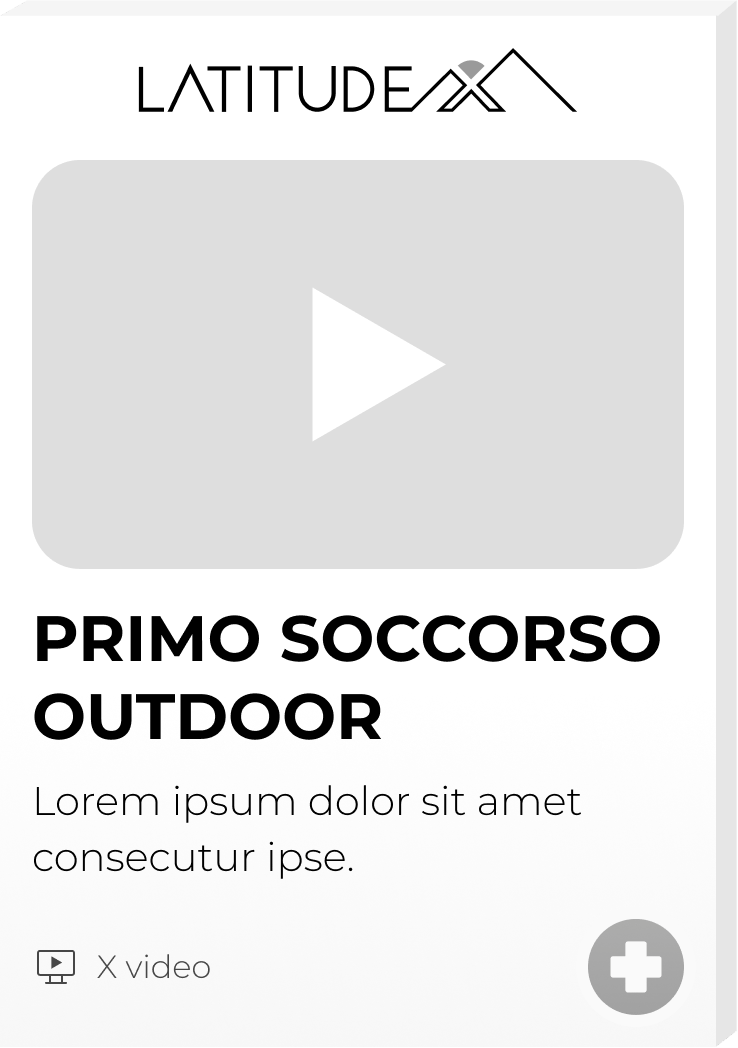
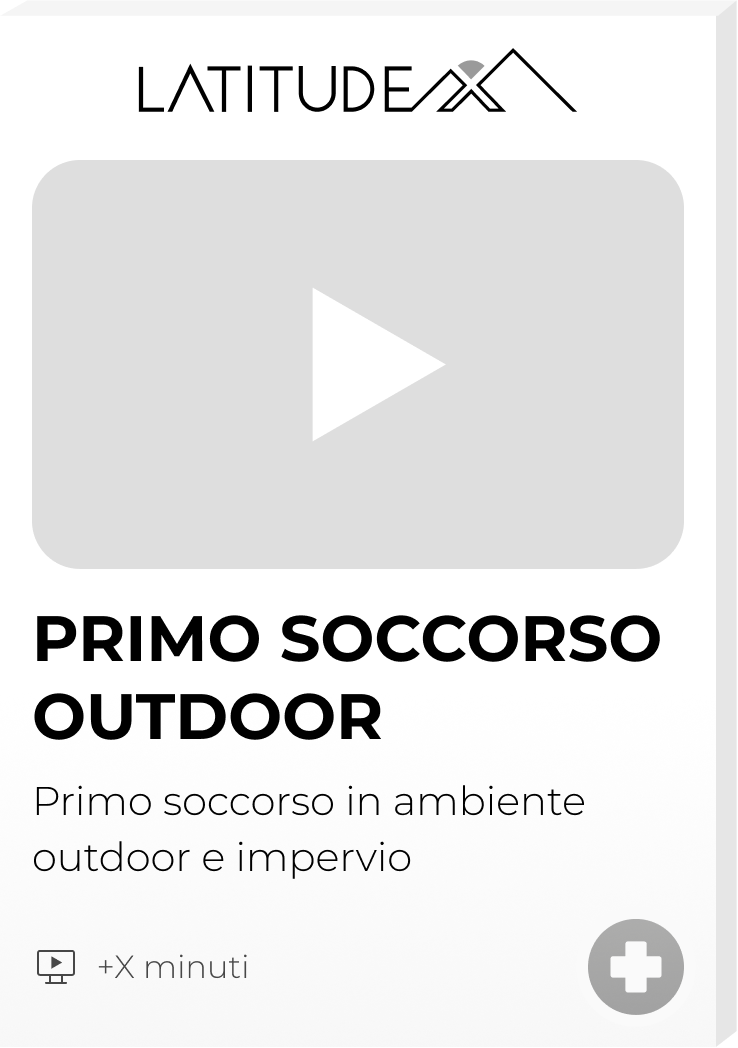
text updates

Changed region(s): [[0.0623, 0.7328, 0.7791, 0.855], [0.1247, 0.916, 0.3428, 0.9466]]

diff --git a/app.config.ts b/app.config.ts
@@ -8,7 +8,7 @@ export default defineAppConfig({
     calendly: "#",
     facebook: "https://www.facebook.com/latitudex/",
     tiktok: "https://www.tiktok.com/@latitudex__academy",
-    instagram: "#",
+    instagram: "https://www.instagram.com/latitudex__academy/",
     cookieBanner: {
       desc: 'Utiliziamo cookie di terze parti per analizzare, in modo anonimo, come viene usato il sito.',
       acceptButton: 'Accetta',
@@ -20,14 +20,14 @@ export default defineAppConfig({
     {
       cover: "/copertina-corso-di-primo-soccorso.png",
       title: "Corso di primo soccorso",
-      description: "In uscita a gennaio 2024",
+      description: "In uscita a febbraio 2024",
       link: "/corso-primo-soccorso",
       isActive: true
     },
     {
       cover: "/copertina-corso-blsd.png",
       title: "Corso BLS-D certificato",
-      description: "In uscita a gennaio 2024",
+      description: "In uscita a febbraio 2024",
       link: "/corso-primo-soccorso",
       isActive: true
     },
@@ -113,7 +113,7 @@ export default defineAppConfig({
         "Istruttrice BLS-D qualificata",
         "Soccorritrice in ambulanza per la Croce Rossa Italiana - SUEM 118",
       ],
-      bio: "Lorem ipsum dolor sit amet, consectetur adipiscing elit, sed do eiusmod tempor incididunt ut labore et dolore magna aliqua. Ut enim ad minim veniam, quis nostrud exercitation ullamco laboris nisi ut aliquip ex ea commodo consequat. Duis aute irure dolor in reprehenderit in voluptate velit esse cillum dolore eu fugiat nulla pariatur. Excepteur sint occaecat cupidatat non proident, sunt in culpa qui officia deserunt mollit anim id est laborum."
+      bio: "Padovana itinerante dal 1996. Cresciuta sotto il segno dell’Ariete, forse la causa del mio spirito dinamico e l’innata perseveranza nel raggiungere gli obiettivi. Appassionata dello Sport in tutte le sue forme e della Natura. Entusiasta e positiva per propria imposizione e personale missione. Laurea Magistrale - con Lode - in Medicina e Chirurgia presso l’Università patavina. Dopo la l’abilitazione alla professione di medico-chirurgo, ho iniziato ad occuparmi di formazione, ottenendo il ruolo di docente titolare dei corsi di Primo Soccorso aziendale. Attualmente sono medico formatore di dipendenti di diverse aziende, avvalendomi di metodiche sia pratiche che teoriche e mettendo a disposizione la mia esperienza come Soccorritrice nelle ambulanze della Croce Rossa Italiana e per il SUEM 118 di Padova. Dalla maggiore età non mi sono più fermata: ho intrapreso diversi viaggi e investito il mio tempo in esperienze che mi formassero dalla mente allo spirito. Chi mi conosce ha ricordi di me solo in movimento, seduta forse solo per mangiare, perché va sottolineato che lo studio della Scienza dell’Alimentazione è una mia grande passione. Insegnante di Yoga per convinto valore, sciatrice per amore. Negli ultimi anni la mia vita ha subito molti cambiamenti. È iniziato un percorso di approccio professionale a diverse discipline legate al mondo dell’Outdoor tra cui alpinismo, canyoning e arrampicata sportiva, ma soprattutto ho conosciuto Francesco. Insieme perseguiamo l’obiettivo di arricchire con sfide, emozioni ed esperienze il viaggio più importante in assoluto, la Vita. Orgogliosa content creator e video maker per passione ed esperienza: sono la creatrice di tutti i video del Canale Youtube di Latitude-X, attraverso i quali esprimo la mia creatività e immortalo le cascate di emozioni racchiuse in ogni singola avventura e sfida vissute. Assemblo e creo minuti di video fatti di storie, immagini e secondi vissuti che diano valore al dono più grande: il nostro tempo."
     },
     francesco: {
       picture: "/francesco-maria-sauro.jpg",
@@ -124,7 +124,7 @@ export default defineAppConfig({
         "Istruttore BLS-D qualificato",
         "Soccorritore in ambulanza per la Croce Rossa Italiana - SUEM 118",
       ],
-      bio: "Lorem ipsum dolor sit amet, consectetur adipiscing elit, sed do eiusmod tempor incididunt ut labore et dolore magna aliqua. Ut enim ad minim veniam, quis nostrud exercitation ullamco laboris nisi ut aliquip ex ea commodo consequat. Duis aute irure dolor in reprehenderit in voluptate velit esse cillum dolore eu fugiat nulla pariatur. Excepteur sint occaecat cupidatat non proident, sunt in culpa qui officia deserunt mollit anim id est laborum."
+      bio: "A 3 anni mio padre mi portò sul Becco di Filadonna in Vigolana. Però non ne lo zaino. Me la feci tutta a piedi, 1000 metri di dislivello. Ebbi la febbre per una settimana. Lì nacque l’amore per la montagna. A 4 anni, tanto ero alto, già non riuscivo a muovermi negli Optimist e seguivo sempre e solo la mia rotta, tra le imprecazioni degli istruttori. Lì nacque l’amore per il mare. Poi di onde, sentieri e pareti ne sono passate in questi anni. La Natura mi ha offerto e mi ha insegnato tanto. Sono diventato skipper appena ho potuto e poi Logistic Coordinator per Miles Beyond – società specializzata nel supporto tecnico e logistico in luoghi estremi. Dal 2017 sono il Logistic Coordinator dei training CAVES e PANGAEA dell’Agenzia Spaziale Europea e ho avuto la fortuna di partecipare in spedizioni in varie parti del Mondo, dalla Groenlandia al Messico, dal Venezuela al Perù, dalle Dolomiti alla Sardegna. Da (ormai troppi) anni mi dedico ai trekking, al free-climbing, all’alpinismo e scialpinismo. Ultimamente – e solo grazie a Giulia – cerco di portare nelle case degli italiani (cit. ☺) un po’ di queste esperienze. Dal 2011 sono soccorritore nelle ambulanze della Croce Rossa di Padova, con all'attivo più di 5.000 interventi di soccorso e sono istruttore di BLS-D e co-docente tecnico nei corsi di BLS. Dal 2019 sono operatore del CNSAS - Corpo Nazionale del Soccorso Alpino e Speleologico. Sono guida associata AssoGuide e skipper."
     },
     luca: {
       picture: "/luca-carenzo.jpg",
@@ -135,7 +135,7 @@ export default defineAppConfig({
         "Formatore e istruttore di simulazione avanzata in ambito di Trauma Critical Care e Disaster Medicine",
         "Diploma Europeo in Terapia Intensiva ed esperienza lavorativa di elisoccorso presso la London’s Air Ambulance",
       ],
-      bio: "Lorem ipsum dolor sit amet, consectetur adipiscing elit, sed do eiusmod tempor incididunt ut labore et dolore magna aliqua. Ut enim ad minim veniam, quis nostrud exercitation ullamco laboris nisi ut aliquip ex ea commodo consequat. Duis aute irure dolor in reprehenderit in voluptate velit esse cillum dolore eu fugiat nulla pariatur. Excepteur sint occaecat cupidatat non proident, sunt in culpa qui officia deserunt mollit anim id est laborum."
+      bio: "Luca Carenzo, medico chirurgo, dopo la specializzazione in Anestesia e Rianimazione ha lavorato con Medici Senza Frontiere in aree a basse risorse e di conflitto e ha successivamente completato la Trauma Critical Care fellowship presso il Royal London Hospital di Londra. Ha inoltre conseguito il master di secondo livello European Master in Disaster Medicine e successivamente il Diploma Europeo in Terapia Intensiva, ha infine acquisito esperienza di elisoccorso lavorando per la London’s Air Ambulance. Attualmente si occupa di terapia intensiva generale ed emergenza presso l’Ospedale Humanitas di Milano. Dal 2012 ad oggi ha frequentato, prima come partecipante e successivamente come faculty, gli eventi formativi di World Extreme Medicine, presentando regolarmente ai congressi della società. Si interessa inoltre di formazione ed educazione, istruttore di simulazione avanzata, ha co-fondato nel 2015 SIMCUP evento nazionale di formazione in simulazione per medici specializzandi."
     }
   },
   recensioni: [
@@ -151,42 +151,42 @@ export default defineAppConfig({
       title: "«Ho evitato che mio figlio soffocasse!»",
       description: "È successo tutto molto velocemente. Eravamo a tavola e ho visto Giacomo che ha iniziato a diventare viola. Inizialmente mi ha preso il panico ma poi mi sono ricordata le manovre di disostruzione che mi avevate insegnato, allora l’ho preso in braccio e ho eseguito meccanicamente il protocollo di disostruzione. Non ho parole per esprimervi la mia gratitudine per avermi dato gli strumenti per agire e salvare mio figlio.",
       from: "Instagram",
-      by: "Nome Cognome"
+      by: "Andrea"
     },
     {
       cover: "/recensione-3.jpg",
       title: "«Quando ti capita, non puoi rimanere a guardare, vuoi agire!»",
       description: "Durante una passeggiata in montagna un componente del gruppo è scivolato dal sentiero in una zona per niente comoda e non riusciva più ad alzarsi. Non ho potuto fare molto dal punto di vista sanitario (abbiamo scoperta dopo che si era rotto il femore), se non gestire al meglio l’intervento, dalla chiamata dei soccorsi, al riscaldare il mio amico (avevo portato il telo termico per la prima volta), allo stargli vicino, al localizzarsi nel migliore dei modi (eravamo partiti ormai da 3 ore). E questo grazie ad aver seguito queste video lezioni.",
-      from: "Instagram",
-      by: "Nome Cognome"
+      from: "Whatsapp",
+      by: "Simona"
     },
     {
       cover: "/recensione-4.jpg",
       title: "«Ho apprezzato tanto il taglio pratico di questo video corso!»",
       description: "Avevo frequentato un corso di primo soccorso in azienda, mi era piaciuto ma sinceramente aveva un taglio eccessivamente teorico. Seguendo questo corso, invece, ho trovato la parte pratica molto interessante e utile veramente in ogni occasione della vita.",
-      from: "Instagram",
-      by: "Nome Cognome"
+      from: "TikTok",
+      by: "Francesco"
     },
     {
       cover: "/recensione-5.jpg",
       title: "«Ora sono in grado di riconoscere tempestivamente i segni d’allarme!»",
       description: "Qualche mese fa un mio collega ha iniziato a star male ma tutti, compreso lui, stavamo sottovalutando la situazione. Avendo fatto il corso da poco, mi sono ricordato, di alcuni sintomi importanti da valutare e alla fine ho preferito chiamare il 118. Il mio collega stava avendo un infarto, ma per fortuna è stato preso in tempo! Tanti segni e sintomi prima non li capivo o li ignoravo perché non ero in grado di riconoscerli.",
       from: "Instagram",
-      by: "Nome Cognome"
+      by: "Giuseppe"
     },
     {
       cover: "/recensione-6.jpg",
       title: "«Ho avuto tanta paura ma sapevo cosa fare»",
       description: "Stavo rientrando a casa quando ho sentito urlare dai garage del mio condominio. C’era un mio condomino che si era tagliato parte del braccio con un ferro e stava già perdendo molto sangue. Sono riuscito a tamponare la ferita nel migliore dei modi, farlo stendere e chiamare immediatamente i soccorsi che, anche grazie al mio intervento, l’hanno salvato. Per fortuna non mi è mai capitato di dover intervenire, però ho voluto frequentare lo stesso il corso per sentirmi più sicura in caso dovessi averne necessità.",
-      from: "Instagram",
-      by: "Nome Cognome"
+      from: "Facebook",
+      by: "Michele"
     },
     {
       cover: "/recensione-7.jpg",
       title: "«Quello che ho imparato posso applicarlo in ogni situazione»",
       description: "Durante una passeggiata in montagna un componente del gruppo è scivolato dal sentiero in una zona per niente comoda e non riusciva più ad alzarsi. Non ho potuto fare molto dal punto di vista sanitario (abbiamo scoperta dopo che si era rotto il femore), se non gestire al meglio l’intervento, dalla chiamata dei soccorsi, al riscaldare il mio amico (avevo portato il telo termico per la prima volta), allo stargli vicino, al localizzarsi nel migliore dei modi (eravamo partiti ormai da 3 ore). E questo grazie ad aver seguito queste video lezioni.",
-      from: "Instagram",
-      by: "Nome Cognome"
+      from: "Whatsapp",
+      by: "Martina"
     },
   ],
   sponsor: [
@@ -289,7 +289,7 @@ export default defineAppConfig({
     },
     {
       header: "Il corso BLSD per l’utilizzo del Defibrillatore, rilascia un attestato valido per legge?",
-      body: "Si! Acquistando il corso di BLS-D potrai richiedere, se ne avessi necessità, il rilascio del Certificato, oppure seguire il Video Corso ed imparare ad utilizzare il DAE correttamente. Quando uscirà il Corso online, verrà pubblicato un calendario dove sarà possibile prenotarsi in uno degli incontri programmati per ricevere il Certificato rilasciato da un Centro di Formazione accreditato al 118 regionale."
+      body: "Dipende! Il corso è strutturato affinché tu acquisisca tutte le competenze necessarie per utilizzare in maniera corretta il DAE, dato che, in caso di necessità, il suo utilizzo è consentito per legge a CHIUNQUE, anche non in possesso di alcun certificato. Quindi puoi acquistare il corso semplicemente per tua cultura personale, con la consapevolezza che, se dovesse servire, hai le competenze per utilizzare il DAE. Tuttavia, il corso online, NON è da solo sufficiente al rilascio dell’attestato all’utilizzo del Defibrillatore Automatico Esterno, essendo richiesta, per questo, anche una parte in presenza. Nel momento in cui acquisterai il corso di BLSD, se ne hai necessità, potrai richiedere il rilascio dell’attestato (che sarà emesso da un Ente di Formazione nostro partner accreditato presso il 118) per l’utilizzo del DAE, valido ai fini di legge. In questo caso, dovrai scegliere un luogo e una data tra quelle proposte nel nostro calendario, per effettuare la parte in presenza."
     },
     {
       header: "Posso vederli da qualsiasi dispositivo?",

diff --git a/components/base/BaseModal.vue b/components/base/BaseModal.vue
@@ -1,7 +1,8 @@
 <template>
   <div :id="modalId">
     <div
-      class="max-w-lg w-full mx-1 bg-white p-4 border border-grey-lighter fixed m-auto z-10 top-1/2 left-1/2 transform -translate-x-1/2 -translate-y-1/2"
+      :class="'max-w-' + modalSize"
+      class="modal w-full mx-1 bg-white p-4 border border-grey-lighter fixed m-auto z-10 top-1/2 left-1/2 transform -translate-x-1/2 -translate-y-1/2"
       @keydown.esc="$emit('close-modal')">
       <div class="flex justify-end mb-3">
         <BaseButton :aria-controls="modalId" aria-expanded="true" @click="$emit('close-modal')">
@@ -26,11 +27,15 @@ const props = defineProps({
   modalId: {
     type: String,
     default: 'base-modal',
+  },
+  modalSize: {
+    type: String,
+    default: 'lg'
   }
 })
 </script>
 <style lang="scss">
-.max-w-lg {
+.modal {
   z-index: 999;
   overflow-y: auto;
   max-height: 98vh;

diff --git a/pages/index.vue b/pages/index.vue
@@ -68,7 +68,7 @@
         Vuoi sapere quando e dove è possibile organizzare un corso di formazione?
       </p>
     </header>
-    <div class="mb-4">
+    <!-- <div class="mb-4">
       <h5 class="text-base md:text-lg">
         <strong>Prenota un call</strong>
       </h5>
@@ -79,7 +79,7 @@
         </a>
         .
       </p>
-    </div>
+    </div> -->
     <div v-if="success" class="p-3 bg-primary-dark text-white rounded w-full prose">
       <h4 class="!text-white">Messaggio Inviato con successo.</h4>
       <p>Grazie per averci contattato, cercheremo di risponderti il prima possibile.</p>

diff --git a/components/base/BaseCarousel.vue b/components/base/BaseCarousel.vue
@@ -86,7 +86,7 @@
         <div class="text-left bg-false-white border border-grey-lighter p-3 relative">
           <h3 class="text-base md:text-xl">
             <span class="text-xs">
-              Recesione da: <strong>{{ element.from }}</strong>
+              Messaggio da: <strong>{{ element.from }}</strong>
             </span>
             <br />
             {{ element.title }}

diff --git a/components/section/AppTeachers.vue b/components/section/AppTeachers.vue
@@ -81,9 +81,10 @@
       </div>
     </div>
   </section>
-
+<!-- <span class="max-w-2xl max-w-3xl"></span> -->
   <BaseModal
     v-if="isModalOpened"
+    :modal-size="'3xl'"
     @close-modal="isModalOpened = false"
     :modal-id="'bio-modal'">
     <div class="flex items-center space-x-4">
